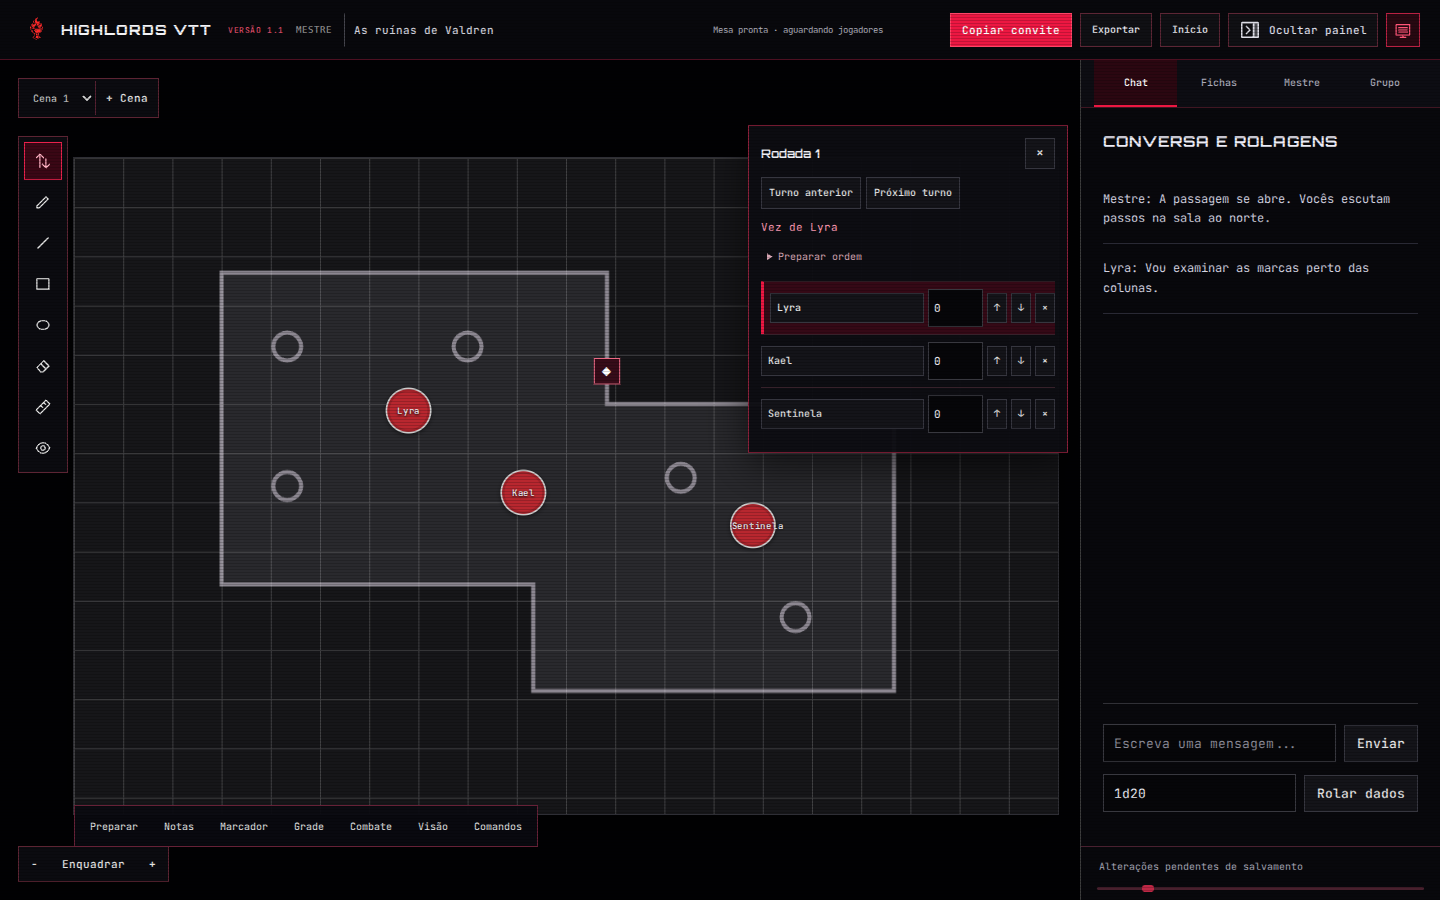
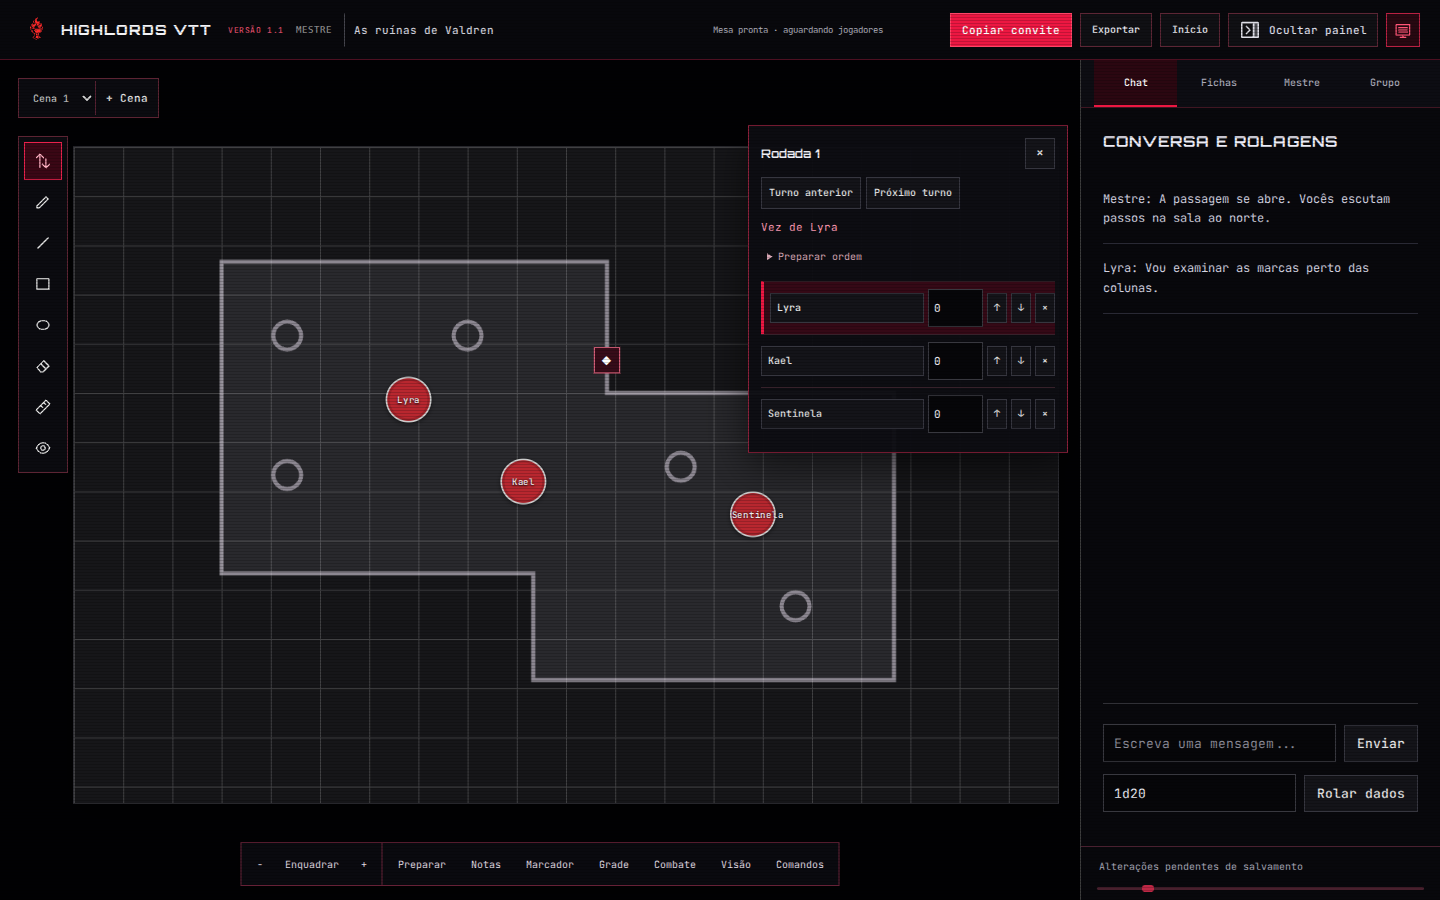
Alinha controles do mapa e encerra instruções de marcador
Reúne zoom e ações da sessão numa barra comum, responsiva, e reserva sua altura no enquadramento e nas ferramentas laterais. A instrução de marcador acompanha somente o modo ativo e termina ao colocar, cancelar, fechar o editor, trocar cena ou sair.

Validação: cinco regressões Chromium dos fluxos afetados aprovadas, incluindo alinhamento em desktop, retrato, paisagem e 320 px; capturas atualizadas.

diff --git a/p2p/assets/session.css b/p2p/assets/session.css
@@ -2,15 +2,32 @@
 .session-dialog{color:var(--ink);background:#09090d;border:1px solid #b92443;padding:0;width:min(720px,calc(100vw - 28px));max-height:90dvh;overflow:auto;box-shadow:0 20px 100px #000c;font:12px/1.7 var(--font-mono)}
 .session-dialog::backdrop{background:#000b}.session-dialog>header{display:flex;align-items:center;justify-content:space-between;position:sticky;top:0;gap:12px;height:auto;min-height:55px;padding:12px 18px;background:#0c0c12;border-bottom:1px solid #662137;z-index:2}.session-dialog h2{font:600 15px/1.5 var(--font-display);margin:0;text-transform:uppercase}.session-dialog h3{font-size:12px;overflow-wrap:anywhere}.session-dialog-body{padding:18px;display:flex;flex-direction:column;gap:15px}.session-dialog label,.quick-inspector label{display:flex;flex-direction:column;gap:6px;font-size:10px;color:#cccbd5}.session-dialog input,.session-dialog select,.session-dialog textarea,.quick-inspector input,.quick-inspector select{width:100%;min-width:0;min-height:40px;font-size:12px}.session-dialog input[type=checkbox]{width:22px;min-height:22px;align-self:flex-start}.session-dialog textarea{min-height:220px;resize:vertical;white-space:pre-wrap}.session-dialog p{margin:0;white-space:pre-wrap;overflow-wrap:anywhere}.session-dialog button{min-height:38px}.session-dialog button:focus-visible{outline-offset:-3px}
 .library-dialog{width:min(1080px,calc(100vw - 28px))}.asset-tabs,.library-actions{display:flex;gap:7px;flex-wrap:wrap}.asset-tabs button[aria-pressed=true]{background:#440d1d;border-color:var(--red);color:white}.asset-cards{display:grid;grid-template-columns:repeat(auto-fill,minmax(165px,1fr));gap:14px}.asset-card{border:1px solid #3c2530;padding:10px;background:#101015;min-width:0}.asset-card>img,.asset-placeholder{width:100%;height:115px;object-fit:contain;background:#040407;border-bottom:1px solid #3c2530}.asset-placeholder{display:grid;place-items:center;font:600 20px var(--font-display);color:#c4405e}.asset-card h3{margin:12px 0 8px}.asset-actions{display:flex;flex-direction:column;gap:6px}.asset-actions button{font-size:10px;padding:7px}.asset-empty{grid-column:1/-1;padding:30px 0}.file-action{border:1px solid #5d2e3b;padding:8px;cursor:pointer}.file-action input{max-width:220px}.library-actions button{font-size:10px}.asset-card .muted{margin:0 0 8px}
-.session-dock{position:absolute;bottom:53px;left:74px;max-width:calc(100% - 90px);display:flex;gap:4px;padding:4px;background:#0a0a10ed;border:1px solid #662137;z-index:12;overflow:auto}.session-dock button{white-space:nowrap;font:10px var(--font-mono);min-height:32px;padding:7px 10px;border-color:transparent;background:transparent}.session-dock button:hover{border-color:var(--red);background:#310914}.session-notice{position:absolute;bottom:96px;left:75px;max-width:calc(100% - 100px);font:10px/1.6 var(--font-mono);padding:4px 7px;color:#ffc0d0;background:#0a0a10dd;z-index:13;pointer-events:none}.session-notice:empty{display:none}.placement-help{position:absolute;top:12px;left:50%;transform:translateX(-50%);max-width:calc(100% - 30px);padding:7px 10px;border:1px solid var(--red);background:#160910;z-index:28;display:flex;gap:10px;align-items:center;font:11px var(--font-mono)}.placement-help[hidden]{display:none}.placing-marker{cursor:crosshair!important}.placing-marker *{cursor:crosshair}.placing-marker button{cursor:pointer}
+.session-dock{display:flex;gap:3px;padding:4px;min-width:0;overflow-x:auto}.session-dock button{white-space:nowrap;font:10px var(--font-mono);min-height:32px;padding:7px 10px;border-color:transparent;background:transparent}.session-dock button:hover{border-color:var(--red);background:#310914}.session-notice{font:10px/1.6 var(--font-mono);margin:0;padding:6px 10px;color:#ffc0d0;background:#0a0a10ed;overflow-wrap:anywhere;pointer-events:none}.session-notice:empty{display:none}.placement-help{position:absolute;top:12px;left:50%;transform:translateX(-50%);max-width:calc(100% - 30px);padding:7px 10px;border:1px solid var(--red);background:#160910;z-index:28;display:flex;gap:10px;align-items:center;font:11px var(--font-mono)}.placement-help[hidden]{display:none}.placing-marker{cursor:crosshair!important}.placing-marker *{cursor:crosshair}.placing-marker button{cursor:pointer}
 #scenePins{position:absolute;inset:0;pointer-events:none}.scene-pin{position:absolute;pointer-events:auto;transform:translate(-50%,-50%);width:32px;height:32px;min-height:32px;padding:3px;border:1px solid #ff7390;background:#370c19;color:white;font:18px var(--font-mono);z-index:4}.scene-pin[data-shared=false]{border-style:dashed;background:#1c1c24;color:#ff96ae}.scene-pin:hover{background:#b01d40}
 .quick-inspector,.combat-tracker{position:absolute;right:12px;top:65px;width:270px;max-width:calc(100% - 88px);max-height:calc(100% - 180px);overflow:auto;padding:12px;background:#0c0c12f5;border:1px solid #8b203a;z-index:24;box-shadow:0 12px 40px #0009;font:11px/1.6 var(--font-mono)}.quick-inspector[hidden],.combat-tracker[hidden]{display:none}.quick-inspector{display:flex;flex-direction:column;gap:9px}.quick-inspector button{font-size:10px;min-height:32px}.inspector-heading{display:flex;justify-content:space-between;gap:10px;align-items:center;margin-bottom:8px}.inspector-heading strong{font:600 12px var(--font-display);overflow-wrap:anywhere}.inspector-heading button{min-width:30px;min-height:30px;padding:4px}.combat-tracker{width:320px;z-index:23}.quick-inspector:not([hidden])~.combat-tracker:not([hidden]){top:auto;bottom:100px;max-height:40%}.combat-controls{display:flex;flex-wrap:wrap;gap:6px;margin-bottom:12px}.combat-controls label{width:100%;font-size:10px}.combat-controls input,.combat-controls select{width:100%;min-height:32px}.combat-controls button{font-size:10px}.combat-entry{display:flex;gap:4px;align-items:center;border-top:1px solid #36212a;padding:7px 0}.combat-entry>button:first-child{flex:1;text-align:left;min-width:0;overflow-wrap:anywhere}.combat-entry button{font-size:10px;padding:6px;min-height:30px}.combat-entry input{width:55px;min-width:0;padding:5px;font-size:11px}.combat-entry.current{border-left:3px solid var(--red);background:#350916;padding-left:6px}.combat-entry span{padding:0 8px}
 .preview-stage{position:relative;width:100%;background:#000;overflow:hidden;border:1px solid #522335;min-height:160px}.preview-stage>img{position:absolute;width:100%;height:100%;object-fit:contain}.preview-token{position:absolute;max-width:100px;padding:3px 5px;border:1px solid #ff6689;background:#761a33;color:white;font:10px var(--font-mono);overflow-wrap:anywhere}.session-dialog #commandResults{display:flex;flex-direction:column;gap:7px}.session-dialog #commandResults button{text-align:left}.session-dialog #commandResults button:hover{background:#3a0a19}
-@media(max-width:800px){.session-dock{left:10px;max-width:calc(100% - 20px);bottom:49px}.session-dock button{min-height:32px;padding:7px;font-size:9px}.session-notice{left:10px;bottom:95px;max-width:calc(100% - 20px)}.quick-inspector{position:fixed;left:0;right:0;top:auto;bottom:0;width:100%;max-width:none;max-height:50dvh;padding:16px 20px;z-index:40;border-width:1px 0 0;box-shadow:0 -10px 40px #000b}.combat-tracker{top:58px;right:10px;max-height:calc(100% - 155px);max-width:calc(100% - 80px);padding:9px}.quick-inspector:not([hidden])~.combat-tracker:not([hidden]){top:58px;bottom:auto;max-height:calc(100% - 155px)}.session-dialog{max-height:94dvh}.session-dialog-body{padding:13px;gap:12px}.asset-cards{grid-template-columns:repeat(auto-fill,minmax(140px,1fr));gap:9px}.session-dialog h2{font-size:12px}.placement-help{top:5px;font-size:10px}.session-dialog textarea{min-height:160px}}
-@media(min-width:600px) and (max-width:800px) and (max-height:520px){.quick-inspector{position:absolute;left:auto;right:8px;top:56px;bottom:93px;width:250px;max-width:calc(100% - 70px);max-height:none;padding:9px}.session-dock{bottom:47px}.combat-tracker{max-height:calc(100% - 150px)}}
+@media(max-width:800px){.session-dock button{min-height:32px;padding:7px;font-size:9px}.quick-inspector{position:fixed;left:0;right:0;top:auto;bottom:0;width:100%;max-width:none;max-height:50dvh;padding:16px 20px;z-index:40;border-width:1px 0 0;box-shadow:0 -10px 40px #000b}.combat-tracker{top:58px;right:10px;max-height:calc(100% - 155px);max-width:calc(100% - 80px);padding:9px}.quick-inspector:not([hidden])~.combat-tracker:not([hidden]){top:58px;bottom:auto;max-height:calc(100% - 155px)}.session-dialog{max-height:94dvh}.session-dialog-body{padding:13px;gap:12px}.asset-cards{grid-template-columns:repeat(auto-fill,minmax(140px,1fr));gap:9px}.session-dialog h2{font-size:12px}.placement-help{top:5px;font-size:10px}.session-dialog textarea{min-height:160px}}
+@media(min-width:600px) and (max-width:800px) and (max-height:520px){.quick-inspector{position:absolute;left:auto;right:8px;top:56px;bottom:93px;width:250px;max-width:calc(100% - 70px);max-height:none;padding:9px}.combat-tracker{max-height:calc(100% - 150px)}}
 
 #gridConfirm{width:min(340px,calc(100vw - 28px));margin:auto 14px 14px auto}#gridConfirm::backdrop{background:#0003}.session-feedback{padding:8px;border-left:2px solid var(--red);color:#ffafc3}
 
 .library-actions{align-items:center}.file-action{justify-content:center;min-height:38px;font-size:10px!important;display:flex!important}.file-action:focus-within{outline:2px solid #ff5b7c;outline-offset:3px}.quick-inspector{background:#0c0c12}.combat-turns{display:flex;flex-wrap:wrap;gap:5px;margin-bottom:10px}.combat-turns button{font-size:10px;padding:7px}.combat-tracker details{margin-bottom:10px}.combat-tracker summary{cursor:pointer;font-size:10px;padding:6px;color:#d7a7b5}.combat-tracker .combat-controls{margin-top:9px}
 
 .file-action[hidden]{display:none!important}.combat-current{font:11px/1.5 var(--font-mono);color:#ff9bb4;margin:0 0 8px}.preview-portrait{max-width:100px;max-height:100px;object-fit:contain}
+
+/* Zoom and session actions form one aligned control rail. */
+.board-controls{position:absolute;left:50%;bottom:14px;transform:translateX(-50%);width:max-content;max-width:calc(100% - 28px);display:flex;flex-direction:column;gap:6px;z-index:12}
+.board-control-row{display:flex;align-items:stretch;min-width:0;background:#0a0a10f5;border:1px solid #662137;box-shadow:0 4px 18px #0007}
+#boardControls #zoomControls{position:static;inset:auto;flex:none;display:flex;align-items:center;justify-content:center;gap:0;padding:4px;border:0;border-right:1px solid #662137;background:transparent;box-shadow:none;border-radius:0;overflow:visible}
+#boardControls #zoomControls button,#boardControls .session-dock button{min-height:34px;padding:7px 10px;font:10px var(--font-mono);border:1px solid transparent;border-radius:0;background:transparent;color:#e1dce3;white-space:nowrap}
+#boardControls button:hover{background:#310914;border-color:#92314a}#boardControls button:focus-visible{outline-offset:-3px}
+#boardControls .session-dock{position:static;inset:auto;max-width:none;border:0;background:transparent;box-shadow:none;scrollbar-width:thin;scrollbar-color:#8b203a #0a0a10}
+@media(max-width:800px){
+ .board-controls{width:calc(100% - 20px);max-width:none;bottom:10px}
+ .board-control-row{display:grid;grid-template-columns:minmax(0,1fr)}
+ #boardControls .session-dock{grid-row:1;border-bottom:1px solid #662137}
+ #boardControls #zoomControls{grid-row:2;border:0}
+ #boardControls #zoomControls button,#boardControls .session-dock button{min-height:32px;font-size:10px;padding:7px 9px}
+}
+
+#boardToolbar{max-height:max(36px,calc(100% - var(--board-controls-height,44px) - 88px));overflow:auto}

diff --git a/p2p/assets/session.js b/p2p/assets/session.js
@@ -1,5 +1,5 @@
 /* Session tools use the campaign model and existing host-authoritative actions. */
-let sessionReady=false,libraryKind='maps',libraryQuery='',pinPlacement=false,gridAlignment=null,inspectorDismissed='';
+let sessionReady=false,libraryKind='maps',libraryQuery='',pinPlacement=false,pinPlacementScene='',gridAlignment=null,inspectorDismissed='';
 function sessionNode(tag,text,cls){return sheetElement(tag,text,cls)}
 function sessionButton(text,fn){const b=sheetButton(text,fn);b.type='button';return b}
 function sessionField(label,type='text',value=''){const wrap=sessionNode('label',label),input=document.createElement(type==='textarea'?'textarea':'input');if(type!=='textarea')input.type=type;input.value=value;input.setAttribute('aria-label',label);wrap.append(input);return {wrap,input}}
@@ -25,8 +25,9 @@ function saveSelectedEncounter(){
  body.append(sessionNode('p',ids.length+' token(s). A formação será preservada.'),name.wrap,tags.wrap,sessionButton('Salvar encontro',()=>{if(!name.input.value.trim())return name.input.focus();if(applyTableAction('table:encounter:save',{ids,name:name.input.value,tags:tags.input.value},myId)){dialog.close();sessionNotice('Encontro salvo na biblioteca.')}else sessionNotice('Não foi possível salvar. O limite é 25 tokens por encontro e 30 encontros.')}));
  dialog.addEventListener('close',()=>dialog.remove(),{once:true});showSessionDialog(dialog);
 }
-function startPinPlacement(){if(!hostMode)return;pinPlacement=true;gridAlignment=null;renderSession();sessionNotice('Clique no mapa para colocar o marcador. Esc cancela.')}
+function startPinPlacement(){if(!hostMode)return;pinPlacement=true;pinPlacementScene=state.activeSceneId;gridAlignment=null;$('sessionNotice').textContent='';renderSession()}
 function openPinEditor(pin){
+ cancelTablePlacement();
  const {dialog,body}=sessionDialog('pinEditor','Marcador da cena');
  const title=sessionField('Título do marcador','text',pin.title||''),text=sessionField('Nota do marcador','textarea',pin.text||'');title.input.maxLength=100;text.input.maxLength=10000;
  body.append(title.wrap,text.wrap);
@@ -49,7 +50,7 @@ function startGridAlignment(){
  body.append(count.wrap,sessionButton('Marcar no mapa',()=>{const cells=Number(count.input.value);if(!Number.isInteger(cells)||cells<1||cells>20)return count.input.focus();gridAlignment={cells,points:[],sceneId:state.activeSceneId};dialog.close();renderSession()}));
  dialog.addEventListener('close',()=>dialog.remove(),{once:true});showSessionDialog(dialog);
 }
-function cancelTablePlacement(){pinPlacement=false;gridAlignment=null;renderEditorGrid();$('gridPreview')?.replaceChildren();renderSession()}
+function cancelTablePlacement(){pinPlacement=false;pinPlacementScene='';gridAlignment=null;$('sessionNotice').textContent='';renderEditorGrid();$('gridPreview')?.replaceChildren();renderSession()}
 function finishGridAlignment(){
  const alignment=gridAlignment,result=calculateGridAlignment(...alignment.points,alignment.cells);
  if(!result){cancelTablePlacement();return sessionNotice('A célula deve medir entre 20 e 150 px. Marque mais células ou aproxime os pontos.')}
@@ -151,9 +152,9 @@ function renderSession(){
  if(!sessionReady)return;
  for(const el of document.querySelectorAll('[data-host-session]'))el.hidden=!hostMode;
  $('placementHelp').hidden=!pinPlacement&&!gridAlignment;
- $('placementHelpText').textContent=pinPlacement?'Clique para colocar o marcador':gridAlignment?'Grade: marque '+(gridAlignment.points.length?'o segundo':'o primeiro')+' ponto':'';
+ $('placementHelpText').textContent=pinPlacement?'Clique no mapa para colocar o marcador. Esc cancela.':gridAlignment?'Grade: marque '+(gridAlignment.points.length?'o segundo':'o primeiro')+' ponto':'';
  $('board').classList.toggle('placing-marker',pinPlacement||!!gridAlignment);
- if(gridAlignment&&gridAlignment.sceneId!==state.activeSceneId){cancelTablePlacement();return}
+ if(pinPlacement&&pinPlacementScene!==state.activeSceneId||gridAlignment&&gridAlignment.sceneId!==state.activeSceneId){cancelTablePlacement();return}
  const pins=$('scenePins');pins.replaceChildren();for(const pin of tableForScene(state,false).pins){const b=sessionButton('◆',()=>openPinEditor(pin));b.className='scene-pin';b.title=pin.title;b.setAttribute('aria-label','Marcador: '+pin.title);b.style.left=pin.x+'px';b.style.top=pin.y+'px';b.dataset.shared=pin.shared;for(const event of ['pointerdown','pointerup'])b.addEventListener(event,e=>e.stopPropagation());pins.append(b)}
  renderQuickInspector();renderCombatTracker();renderVisualLibrary();
  if($('game').style.display!=='block'){$('combatTracker').hidden=true;$('quickInspector').hidden=true}
@@ -162,7 +163,8 @@ addEventListener('DOMContentLoaded',()=>{
  const dock=sessionNode('nav',undefined,'session-dock');dock.id='sessionDock';dock.setAttribute('aria-label','Recursos da sessão');
  for(const [label,fn,hostOnly] of [['Preparar',()=>{openVisualLibrary()},true],['Notas',openSceneNotes,true],['Marcador',startPinPlacement,true],['Grade',startGridAlignment,true],['Combate',()=>{$('combatTracker').hidden=!$('combatTracker').hidden;renderCombatTracker()},false],['Visão',openPlayerPreview,true],['Comandos',openCommandSearch,false]]){const b=sessionButton(label,fn);if(hostOnly)b.dataset.hostSession='';if(label==='Comandos'){b.title='Buscar comandos (Ctrl+K / ⌘K)';b.setAttribute('aria-keyshortcuts','Control+k Meta+k')}dock.append(b)}
  $('board').append(dock);
- const notice=sessionNode('p',undefined,'session-notice');notice.id='sessionNotice';notice.setAttribute('role','status');$('board').append(notice);
+ const notice=sessionNode('p',undefined,'session-notice');notice.id='sessionNotice';notice.setAttribute('role','status');const controls=sessionNode('section',undefined,'board-controls');controls.id='boardControls';controls.setAttribute('aria-label','Navegação e recursos do mapa');const row=sessionNode('div',undefined,'board-control-row');row.append($('zoomControls'),dock);controls.append(notice,row);$('board').append(controls);
+ new ResizeObserver(()=>{$('board').style.setProperty('--board-controls-height',controls.getBoundingClientRect().height+'px');if($('game').style.display==='block')fitBoard()}).observe(controls);
  const help=sessionNode('div',undefined,'placement-help');help.id='placementHelp';help.hidden=true;const helpText=sessionNode('span');helpText.id='placementHelpText';help.append(helpText,sessionButton('Cancelar',cancelTablePlacement));$('board').append(help);
  const pins=sessionNode('div');pins.id='scenePins';$('canvas').append(pins);
  const inspector=sessionNode('section',undefined,'quick-inspector');inspector.id='quickInspector';inspector.setAttribute('aria-label','Propriedades rápidas do token');inspector.hidden=true;$('board').append(inspector);inspector.addEventListener('focusout',()=>setTimeout(renderQuickInspector,0));
@@ -178,7 +180,7 @@ addEventListener('DOMContentLoaded',()=>{
  const command=sessionDialog('commandSearch','Buscar comandos');const query=sessionField('O que deseja fazer?');query.input.id='commandQuery';query.input.oninput=renderCommandResults;const results=sessionNode('div');results.id='commandResults';command.body.append(query.wrap,results);
  command.dialog.addEventListener('keydown',e=>{const buttons=[...results.querySelectorAll('button')];if(e.key==='ArrowDown'||e.key==='ArrowUp'){e.preventDefault();const i=buttons.indexOf(document.activeElement);buttons[(i+(e.key==='ArrowDown'?1:-1)+buttons.length)%buttons.length]?.focus()}if(e.key==='Enter'&&document.activeElement===query.input){e.preventDefault();buttons[0]?.click()}});
  $('board').addEventListener('pointerdown',e=>{
-  if(!hostMode||!pinPlacement&&!gridAlignment||e.target.closest('button,input,select,textarea,nav,#quickInspector,#combatTracker'))return;
+  if(!hostMode||!pinPlacement&&!gridAlignment||e.target.closest('button,input,select,textarea,nav,#boardControls,#quickInspector,#combatTracker'))return;
   e.preventDefault();e.stopImmediatePropagation();const point=boardPoint(e);if(point.x<0||point.y<0||point.x>boardWidth()||point.y>boardHeight())return;
   if(pinPlacement){pinPlacement=false;renderSession();openPinEditor({...point,shared:false});return}
   gridAlignment.points.push(point);if(gridAlignment.points.length===2)finishGridAlignment();else renderSession();
@@ -191,7 +193,8 @@ addEventListener('DOMContentLoaded',()=>{
   if(['INPUT','TEXTAREA','SELECT'].includes(e.target.tagName)||e.target.isContentEditable)return;
   if((e.ctrlKey||e.metaKey)&&e.key.toLowerCase()==='k'){e.preventDefault();e.stopImmediatePropagation();openCommandSearch()}
  },true);
- for(const surface of [dock,inspector,tracker,help])for(const type of ['pointerdown','pointerup','wheel'])surface.addEventListener(type,e=>e.stopPropagation());
+ $('leaveGame').addEventListener('click',cancelTablePlacement);
+ for(const surface of [controls,inspector,tracker,help])for(const type of ['pointerdown','pointerup','wheel'])surface.addEventListener(type,e=>e.stopPropagation());
  $('tabTools').textContent='Mestre';$('masterTools').querySelector('h3').textContent='Ferramentas da cena';$('masterTools').querySelector('h3').after(sessionButton('Abrir biblioteca visual',openVisualLibrary));
  sessionReady=true;renderSession();
 });

diff --git a/p2p/assets/workspace.js b/p2p/assets/workspace.js
@@ -1,7 +1,8 @@
 function fitBoard() {
   const rect = document.getElementById('board').getBoundingClientRect();
   if (!rect.width || !rect.height) return;
-  const left = hostMode ? 74 : 22, right = 22, top = 62, bottom = 50;
+  const left = hostMode ? 74 : 22, right = 22, top = 62;
+  const bottom = Math.max(50, (document.getElementById('boardControls')?.getBoundingClientRect().height || 0) + 28);
   const width = Math.max(30, rect.width - left - right), height = Math.max(30, rect.height - top - bottom);
   zoom = Math.max(.03, Math.min(width / boardWidth(), height / boardHeight(), 1));
   offset = {x:left+(width-boardWidth()*zoom)/2,y:top+(height-boardHeight()*zoom)/2};

diff --git a/docs/DIRECAO_VISUAL.md b/docs/DIRECAO_VISUAL.md
@@ -18,3 +18,6 @@ Prévia da entrada: [interface-home.png](interface-home.png). A captura da mesa 
 
 
 A evolução de sessão acrescenta a biblioteca visual em uma janela de preparação, propriedades contextuais de token (painel inferior no celular) e combate recolhível sobre o mapa. A barra inferior oferece acesso a notas, marcadores, grade, prévia e busca, com rolagem horizontal em telas estreitas. **Mestre** identifica os controles detalhados da cena. Os novos controles isolam gestos de ponteiro para não iniciar pan no mapa. Veja [interface-library.png](interface-library.png) e [SESSAO_E_PREPARACAO.md](SESSAO_E_PREPARACAO.md).
+
+
+Os comandos de zoom/enquadramento e os recursos da sessão compartilham uma barra inferior centralizada, com borda e espaçamento comuns. No desktop ficam lado a lado; em telas até 800 px, o menu usa a primeira linha e o zoom ocupa a segunda com a mesma largura. Instruções de colocação de marcador existem somente enquanto o modo está ativo, encerrando ao marcar, cancelar, fechar o editor, trocar de cena ou sair da mesa.
